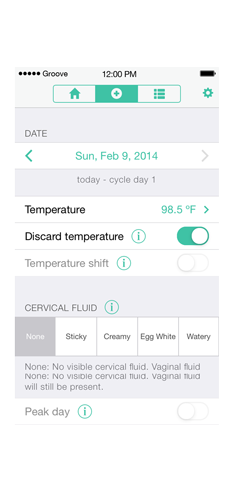
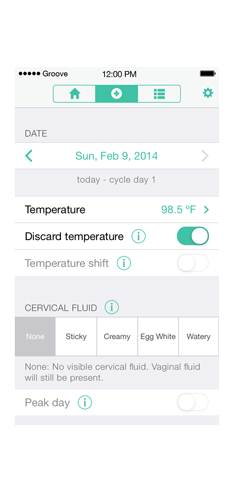
fixed wonky screenshot for index.html

Changed region(s): [[0.0901, 0.7622, 0.5408, 0.8537], [0.6609, 0.7622, 0.8712, 0.7927], [0.5708, 0.7622, 0.6309, 0.7927]]

diff --git a/_site/app/index.html b/_site/app/index.html
@@ -42,7 +42,7 @@
       <ul>
         <li class="nav-link"><a class="text-link" href="/">home</a></li>
         <li class="nav-link"><a class="text-link" href="/app">app</a></li>
-        <li class="nav-link"><a class="text-link" href="/book">book</a></li>
+        <li class="nav-link"><a class="text-link" href="/the-cycle">book</a></li>
         <li class="nav-link"><a class="text-link" href="/blog">blog</a></li>
         <li class="nav-link"><a class="text-link" href="/about">about</a></li>
         <li class="nav-button-link"><a class="nav-button" target="_blank" href="https://itunes.apple.com/us/app/groove-period-fertility-tracker/id831795151?ls=1&mt=8">get the iPhone app</a></li>
@@ -111,18 +111,18 @@
 		<div class="faq">
 			<h1 class="page-header gray-dark">Frequently Asked Questions</h1>
 			<div class="panel-group" id="accordion">
-			  <div class="panel panel-default">
+				<div class="panel panel-default">
 			    <div class="panel-heading">
 			      <h3 class="panel-title">
 			        <a class="text-link" data-toggle="collapse" data-parent="#accordion" href="#collapseOne">
-			          What is Groove's Fertility Charting account?
+			          What's the sympto-thermal method of fertility awareness?
 			        </a>
 			      </h3>
 			    </div>
 			    <div id="collapseOne" class="panel-collapse collapse">
 			      <div class="panel-body">
 			      	<p class="gray-light">
-			        Groove’s advanced Fertility Charting account has all the amazing features you need to practice the sympto-thermal method of fertility awareness. The sympto-thermal method is an incredible way to take control of your reproductive health, and it requires the daily charting of two simple fertility signs: (1) basal body temperature and (2) cervical fluid. The sympto-thermal method can be used as a form of natural and effective birth control, as a tool to help you get pregnant quickly, or as a tool to monitor your reproductive health! <a class="text-link" target="_blank" href="/the-cycle">Learn how to practice the sympto-thermal method for free</a>. 
+			        The sympto-thermal method of fertility awareness is a scientifically-based method of determining when during your unique menstrual cycle you are fertile...and you're not fertile every day! Practicing the sympto-thermal method allows you to naturally and effectively avoid a pregnancy, get pregnant quickly and easily, and monitor your reproductive health. It requires that you practice a simple set of rules and monitor two scientifically-backed signs of fertility: (1) cervical fluid and (2) basal body temperature. <a class="text-link" target="_blank" href="/the-cycle">Learn the sympto-thermal method for free</a>, right from our website! 
 			      	</p>
 			      </div>
 			    </div>
@@ -131,14 +131,14 @@
 			    <div class="panel-heading">
 			      <h3 class="panel-title">
 			        <a class="text-link" data-toggle="collapse" data-parent="#accordion" href="#collapseTwo">
-			          What exactly is cervical fluid and how do I check it?
+			          What is Groove's Fertility Charting account?
 			        </a>
 			      </h3>
 			    </div>
 			    <div id="collapseTwo" class="panel-collapse collapse">
 			      <div class="panel-body">
 			      	<p class="gray-light">
-			        Each cycle, your cervix produces fluid. This fluid is a perfectly natural and healthy bodily secretion! Monitoring cervical fluid allows you to pinpoint the beginning of the fertile window, and it’s an excellent way to make sure your reproductive system is functioning normally. Learning how to check your cervical fluid is both simple and incredibly useful. <a class="text-link" target="_blank" href="/the-cycle/chapter-6-hormone-changes-and-fertility-signals/#what-is-cervical-fluid">Read more about cervical fluid on our website</a> or get in touch with a <a class="text-link" target="_blank" href="/the-cycle/appendix-d-fertility-awareness-and-menstrual-health-resources">Fertility Awareness Educator</a>.
+			        Groove’s advanced Fertility Charting account has all the amazing features you need to practice the sympto-thermal method of fertility awareness. The sympto-thermal method is an incredible way to take control of your reproductive health, and it requires the daily charting of two simple fertility signs: (1) cervical fluid and (2) basal body temperature. The sympto-thermal method can be used as a form of natural and effective birth control, as a tool to help you get pregnant quickly, or as a tool to monitor your reproductive health! <a class="text-link" target="_blank" href="/the-cycle">Learn how to practice the sympto-thermal method for free</a>. 
 			      	</p>
 			      </div>
 			    </div>
@@ -147,11 +147,27 @@
 			    <div class="panel-heading">
 			      <h3 class="panel-title">
 			        <a class="text-link" data-toggle="collapse" data-parent="#accordion" href="#collapseThree">
-			          What’s basal body temperature and why should I track it?
+			          What exactly is cervical fluid and how do I check it?
 			        </a>
 			      </h3>
 			    </div>
 			    <div id="collapseThree" class="panel-collapse collapse">
+			      <div class="panel-body">
+			      	<p class="gray-light">
+			        Each cycle, your cervix produces fluid. This fluid is a perfectly natural and healthy bodily secretion! Monitoring cervical fluid allows you to pinpoint the beginning of your fertile window each cycle, and it’s an excellent way to make sure your reproductive system is in good health. Learning how to check your cervical fluid is both simple and incredibly useful. <a class="text-link" target="_blank" href="/the-cycle/chapter-6-hormone-changes-and-fertility-signals/#what-is-cervical-fluid">Read more about cervical fluid on our website</a> or get in touch with a <a class="text-link" target="_blank" href="/the-cycle/appendix-d-fertility-awareness-and-menstrual-health-resources">Fertility Awareness Educator</a>.
+			      	</p>
+			      </div>
+			    </div>
+			  </div>
+			  <div class="panel panel-default">
+			    <div class="panel-heading">
+			      <h3 class="panel-title">
+			        <a class="text-link" data-toggle="collapse" data-parent="#accordion" href="#collapseFour">
+			          What’s basal body temperature and why should I track it?
+			        </a>
+			      </h3>
+			    </div>
+			    <div id="collapseFour" class="panel-collapse collapse">
 			      <div class="panel-body">
 			        <p class="gray-light">
 			        Basal body temperature (BBT) is your body’s core temperature at rest, and it's a super important fertility sign! After ovulation occurs, your body produces a hormone called progesterone that causes your BBT to rise and stay high for the rest of the cycle. Tracking your BBT helps confirm ovulation and the end of your fertile window. <a class="text-link" target="_blank" href="/the-cycle/chapter-6-hormone-changes-and-fertility-signals/#what-is-bbt">Learn more about basal body temperature</a>.
@@ -162,12 +178,12 @@
 			  <div class="panel panel-default">
 			    <div class="panel-heading">
 			      <h3 class="panel-title">
-			        <a class="text-link" data-toggle="collapse" data-parent="#accordion" href="#collapseFour">
+			        <a class="text-link" data-toggle="collapse" data-parent="#accordion" href="#collapseFive">
 			          Help...I don't understand fertility charting!
 			        </a>
 			      </h3>
 			    </div>
-			    <div id="collapseFour" class="panel-collapse collapse">
+			    <div id="collapseFive" class="panel-collapse collapse">
 			      <div class="panel-body">
 			        <p class="gray-light">
 			        Don’t worry, we’ve all been there...that’s why we’re here to guide and support you! You can learn the basics of charting your fertility using the sympto-thermal method <a class="text-link" target="_blank" href="/the-cycle/chapter-7-the-rules-of-the-sympto-thermal-method">for free right from our website</a>. If you're still not totally confident in your ability to practice the sympto-thermal method, we highly recommend getting in touch with a <a class="text-link" target="_blank" href="/the-cycle/appendix-d-fertility-awareness-and-menstrual-health-resources">Fertility Awareness Educator</a>.
@@ -178,12 +194,12 @@
 			  <div class="panel panel-default">
 			    <div class="panel-heading">
 			      <h3 class="panel-title">
-			        <a class="text-link" data-toggle="collapse" data-parent="#accordion" href="#collapseFive">
+			        <a class="text-link" data-toggle="collapse" data-parent="#accordion" href="#collapseSix">
 			          I'm having trouble figuring out my cervical fluid pattern.
 			        </a>
 			      </h3>
 			    </div>
-			    <div id="collapseFive" class="panel-collapse collapse">
+			    <div id="collapseSix" class="panel-collapse collapse">
 			      <div class="panel-body">
 			        <p class="gray-light">
 			        Your personal cervical fluid pattern might take some time to figure out at first, but trust us when we say this knowledge is completely worth it! If you find yourself stuck, <a class="text-link" target="_blank" href="/the-cycle/chapter-8-checking-fertility-signs-how-to">there's tons of great information on our website</a>. If you still find yourself struggling, get in touch with an amazing <a class="text-link" target="_blank" href="/the-cycle/appendix-d-fertility-awareness-and-menstrual-health-resources">Fertility Awareness Educator</a> to help you chart with confidence! 
@@ -194,12 +210,12 @@
 			  <div class="panel panel-default">
 			    <div class="panel-heading">
 			      <h3 class="panel-title">
-			        <a class="text-link" data-toggle="collapse" data-parent="#accordion" href="#collapseSix">
+			        <a class="text-link" data-toggle="collapse" data-parent="#accordion" href="#collapseSeven">
 			          Why can't I add a passcode to Groove's app?
 			        </a>
 			      </h3>
 			    </div>
-			    <div id="collapseSix" class="panel-collapse collapse">
+			    <div id="collapseSeven" class="panel-collapse collapse">
 			      <div class="panel-body">
 			        <p class="gray-light">
 			        We think that protecting your cycle data is just as important as protecting your emails, text messages, and other sensitive personal information on your device. It’s simple to <a class="text-link" target="_blank" href="http://support.apple.com/kb/ht4113">add a passcode</a> to your iPhone or iPad, and we think it’s important for us to build features that aren’t already provided by your device. This lets device designers and developers keep doing what they do best, and allows us to do what we do best, which is making Groove the best app available! 
@@ -210,12 +226,12 @@
 			  <div class="panel panel-default">
 			    <div class="panel-heading">
 			      <h3 class="panel-title">
-			        <a class="text-link" data-toggle="collapse" data-parent="#accordion" href="#collapseSeven">
+			        <a class="text-link" data-toggle="collapse" data-parent="#accordion" href="#collapseEight">
 			          Why doesn’t Groove support Celsius temperatures?
 			        </a>
 			      </h3>
 			    </div>
-			    <div id="collapseSeven" class="panel-collapse collapse">
+			    <div id="collapseEight" class="panel-collapse collapse">
 			      <div class="panel-body">
 			        <p class="gray-light">
 			        We initially released the Groove app only within the United States. If you are outside of the U.S. or simply prefer charting in Celsius, we’re getting there. We’ll have you Groovin’ in no time! 

diff --git a/_site/index.html b/_site/index.html
@@ -42,7 +42,7 @@
       <ul>
         <li class="nav-link"><a class="text-link" href="/">home</a></li>
         <li class="nav-link"><a class="text-link" href="/app">app</a></li>
-        <li class="nav-link"><a class="text-link" href="/book">book</a></li>
+        <li class="nav-link"><a class="text-link" href="/the-cycle">book</a></li>
         <li class="nav-link"><a class="text-link" href="/blog">blog</a></li>
         <li class="nav-link"><a class="text-link" href="/about">about</a></li>
         <li class="nav-button-link"><a class="nav-button" target="_blank" href="https://itunes.apple.com/us/app/groove-period-fertility-tracker/id831795151?ls=1&mt=8">get the iPhone app</a></li>
@@ -90,7 +90,7 @@
       </div>
       <div id="text2" class="text" >
         <h1>Listen to your body.</h1>
-        <h3>It gives you all the information you need to be in control. All you have to do is record it.</h3>
+        <h3>It gives you all the information you need to be in control. All you have to do is record what you see.</h3>
       </div>
       <div id="text3" class="text" >
         <h1>Never get caught off guard.</h1>

diff --git a/_site/about/index.html b/_site/about/index.html
@@ -42,7 +42,7 @@
       <ul>
         <li class="nav-link"><a class="text-link" href="/">home</a></li>
         <li class="nav-link"><a class="text-link" href="/app">app</a></li>
-        <li class="nav-link"><a class="text-link" href="/book">book</a></li>
+        <li class="nav-link"><a class="text-link" href="/the-cycle">book</a></li>
         <li class="nav-link"><a class="text-link" href="/blog">blog</a></li>
         <li class="nav-link"><a class="text-link" href="/about">about</a></li>
         <li class="nav-button-link"><a class="nav-button" target="_blank" href="https://itunes.apple.com/us/app/groove-period-fertility-tracker/id831795151?ls=1&mt=8">get the iPhone app</a></li>

diff --git a/_site/blog/2014/03/15/finding-fertility-awareness-my-birth-control-story/index.html b/_site/blog/2014/03/15/finding-fertility-awareness-my-birth-control-story/index.html
@@ -41,7 +41,7 @@
       <ul>
         <li class="nav-link"><a class="text-link" href="/">home</a></li>
         <li class="nav-link"><a class="text-link" href="/app">app</a></li>
-        <li class="nav-link"><a class="text-link" href="/book">book</a></li>
+        <li class="nav-link"><a class="text-link" href="/the-cycle">book</a></li>
         <li class="nav-link"><a class="text-link" href="/blog">blog</a></li>
         <li class="nav-link"><a class="text-link" href="/about">about</a></li>
         <li class="nav-button-link"><a class="nav-button" target="_blank" href="https://itunes.apple.com/us/app/groove-period-fertility-tracker/id831795151?ls=1&mt=8">get the iPhone app</a></li>

diff --git a/_site/blog/2014/03/16/groove-period-&-fertility-tracker-is-now-available/index.html b/_site/blog/2014/03/16/groove-period-&-fertility-tracker-is-now-available/index.html
@@ -41,7 +41,7 @@
       <ul>
         <li class="nav-link"><a class="text-link" href="/">home</a></li>
         <li class="nav-link"><a class="text-link" href="/app">app</a></li>
-        <li class="nav-link"><a class="text-link" href="/book">book</a></li>
+        <li class="nav-link"><a class="text-link" href="/the-cycle">book</a></li>
         <li class="nav-link"><a class="text-link" href="/blog">blog</a></li>
         <li class="nav-link"><a class="text-link" href="/about">about</a></li>
         <li class="nav-button-link"><a class="nav-button" target="_blank" href="https://itunes.apple.com/us/app/groove-period-fertility-tracker/id831795151?ls=1&mt=8">get the iPhone app</a></li>

diff --git a/_site/blog/index.html b/_site/blog/index.html
@@ -42,7 +42,7 @@
       <ul>
         <li class="nav-link"><a class="text-link" href="/">home</a></li>
         <li class="nav-link"><a class="text-link" href="/app">app</a></li>
-        <li class="nav-link"><a class="text-link" href="/book">book</a></li>
+        <li class="nav-link"><a class="text-link" href="/the-cycle">book</a></li>
         <li class="nav-link"><a class="text-link" href="/blog">blog</a></li>
         <li class="nav-link"><a class="text-link" href="/about">about</a></li>
         <li class="nav-button-link"><a class="nav-button" target="_blank" href="https://itunes.apple.com/us/app/groove-period-fertility-tracker/id831795151?ls=1&mt=8">get the iPhone app</a></li>

diff --git a/_site/press/index.html b/_site/press/index.html
@@ -42,7 +42,7 @@
       <ul>
         <li class="nav-link"><a class="text-link" href="/">home</a></li>
         <li class="nav-link"><a class="text-link" href="/app">app</a></li>
-        <li class="nav-link"><a class="text-link" href="/book">book</a></li>
+        <li class="nav-link"><a class="text-link" href="/the-cycle">book</a></li>
         <li class="nav-link"><a class="text-link" href="/blog">blog</a></li>
         <li class="nav-link"><a class="text-link" href="/about">about</a></li>
         <li class="nav-button-link"><a class="nav-button" target="_blank" href="https://itunes.apple.com/us/app/groove-period-fertility-tracker/id831795151?ls=1&mt=8">get the iPhone app</a></li>

diff --git a/_site/privacy/index.html b/_site/privacy/index.html
@@ -42,7 +42,7 @@
       <ul>
         <li class="nav-link"><a class="text-link" href="/">home</a></li>
         <li class="nav-link"><a class="text-link" href="/app">app</a></li>
-        <li class="nav-link"><a class="text-link" href="/book">book</a></li>
+        <li class="nav-link"><a class="text-link" href="/the-cycle">book</a></li>
         <li class="nav-link"><a class="text-link" href="/blog">blog</a></li>
         <li class="nav-link"><a class="text-link" href="/about">about</a></li>
         <li class="nav-button-link"><a class="nav-button" target="_blank" href="https://itunes.apple.com/us/app/groove-period-fertility-tracker/id831795151?ls=1&mt=8">get the iPhone app</a></li>

diff --git a/_site/terms/index.html b/_site/terms/index.html
@@ -42,7 +42,7 @@
       <ul>
         <li class="nav-link"><a class="text-link" href="/">home</a></li>
         <li class="nav-link"><a class="text-link" href="/app">app</a></li>
-        <li class="nav-link"><a class="text-link" href="/book">book</a></li>
+        <li class="nav-link"><a class="text-link" href="/the-cycle">book</a></li>
         <li class="nav-link"><a class="text-link" href="/blog">blog</a></li>
         <li class="nav-link"><a class="text-link" href="/about">about</a></li>
         <li class="nav-button-link"><a class="nav-button" target="_blank" href="https://itunes.apple.com/us/app/groove-period-fertility-tracker/id831795151?ls=1&mt=8">get the iPhone app</a></li>

diff --git a/_site/the-cycle/appendix-a-the-sympto-thermal-method-for-contraception/index.html b/_site/the-cycle/appendix-a-the-sympto-thermal-method-for-contraception/index.html
@@ -41,7 +41,7 @@
       <ul>
         <li class="nav-link"><a class="text-link" href="/">home</a></li>
         <li class="nav-link"><a class="text-link" href="/app">app</a></li>
-        <li class="nav-link"><a class="text-link" href="/book">book</a></li>
+        <li class="nav-link"><a class="text-link" href="/the-cycle">book</a></li>
         <li class="nav-link"><a class="text-link" href="/blog">blog</a></li>
         <li class="nav-link"><a class="text-link" href="/about">about</a></li>
         <li class="nav-button-link"><a class="nav-button" target="_blank" href="https://itunes.apple.com/us/app/groove-period-fertility-tracker/id831795151?ls=1&mt=8">get the iPhone app</a></li>

diff --git a/_site/the-cycle/appendix-b-the-sympto-thermal-method-for-conception/index.html b/_site/the-cycle/appendix-b-the-sympto-thermal-method-for-conception/index.html
@@ -41,7 +41,7 @@
       <ul>
         <li class="nav-link"><a class="text-link" href="/">home</a></li>
         <li class="nav-link"><a class="text-link" href="/app">app</a></li>
-        <li class="nav-link"><a class="text-link" href="/book">book</a></li>
+        <li class="nav-link"><a class="text-link" href="/the-cycle">book</a></li>
         <li class="nav-link"><a class="text-link" href="/blog">blog</a></li>
         <li class="nav-link"><a class="text-link" href="/about">about</a></li>
         <li class="nav-button-link"><a class="nav-button" target="_blank" href="https://itunes.apple.com/us/app/groove-period-fertility-tracker/id831795151?ls=1&mt=8">get the iPhone app</a></li>

diff --git a/_site/the-cycle/appendix-c-the-sympto-thermal-method-for-reproductive-health/index.html b/_site/the-cycle/appendix-c-the-sympto-thermal-method-for-reproductive-health/index.html
@@ -41,7 +41,7 @@
       <ul>
         <li class="nav-link"><a class="text-link" href="/">home</a></li>
         <li class="nav-link"><a class="text-link" href="/app">app</a></li>
-        <li class="nav-link"><a class="text-link" href="/book">book</a></li>
+        <li class="nav-link"><a class="text-link" href="/the-cycle">book</a></li>
         <li class="nav-link"><a class="text-link" href="/blog">blog</a></li>
         <li class="nav-link"><a class="text-link" href="/about">about</a></li>
         <li class="nav-button-link"><a class="nav-button" target="_blank" href="https://itunes.apple.com/us/app/groove-period-fertility-tracker/id831795151?ls=1&mt=8">get the iPhone app</a></li>
